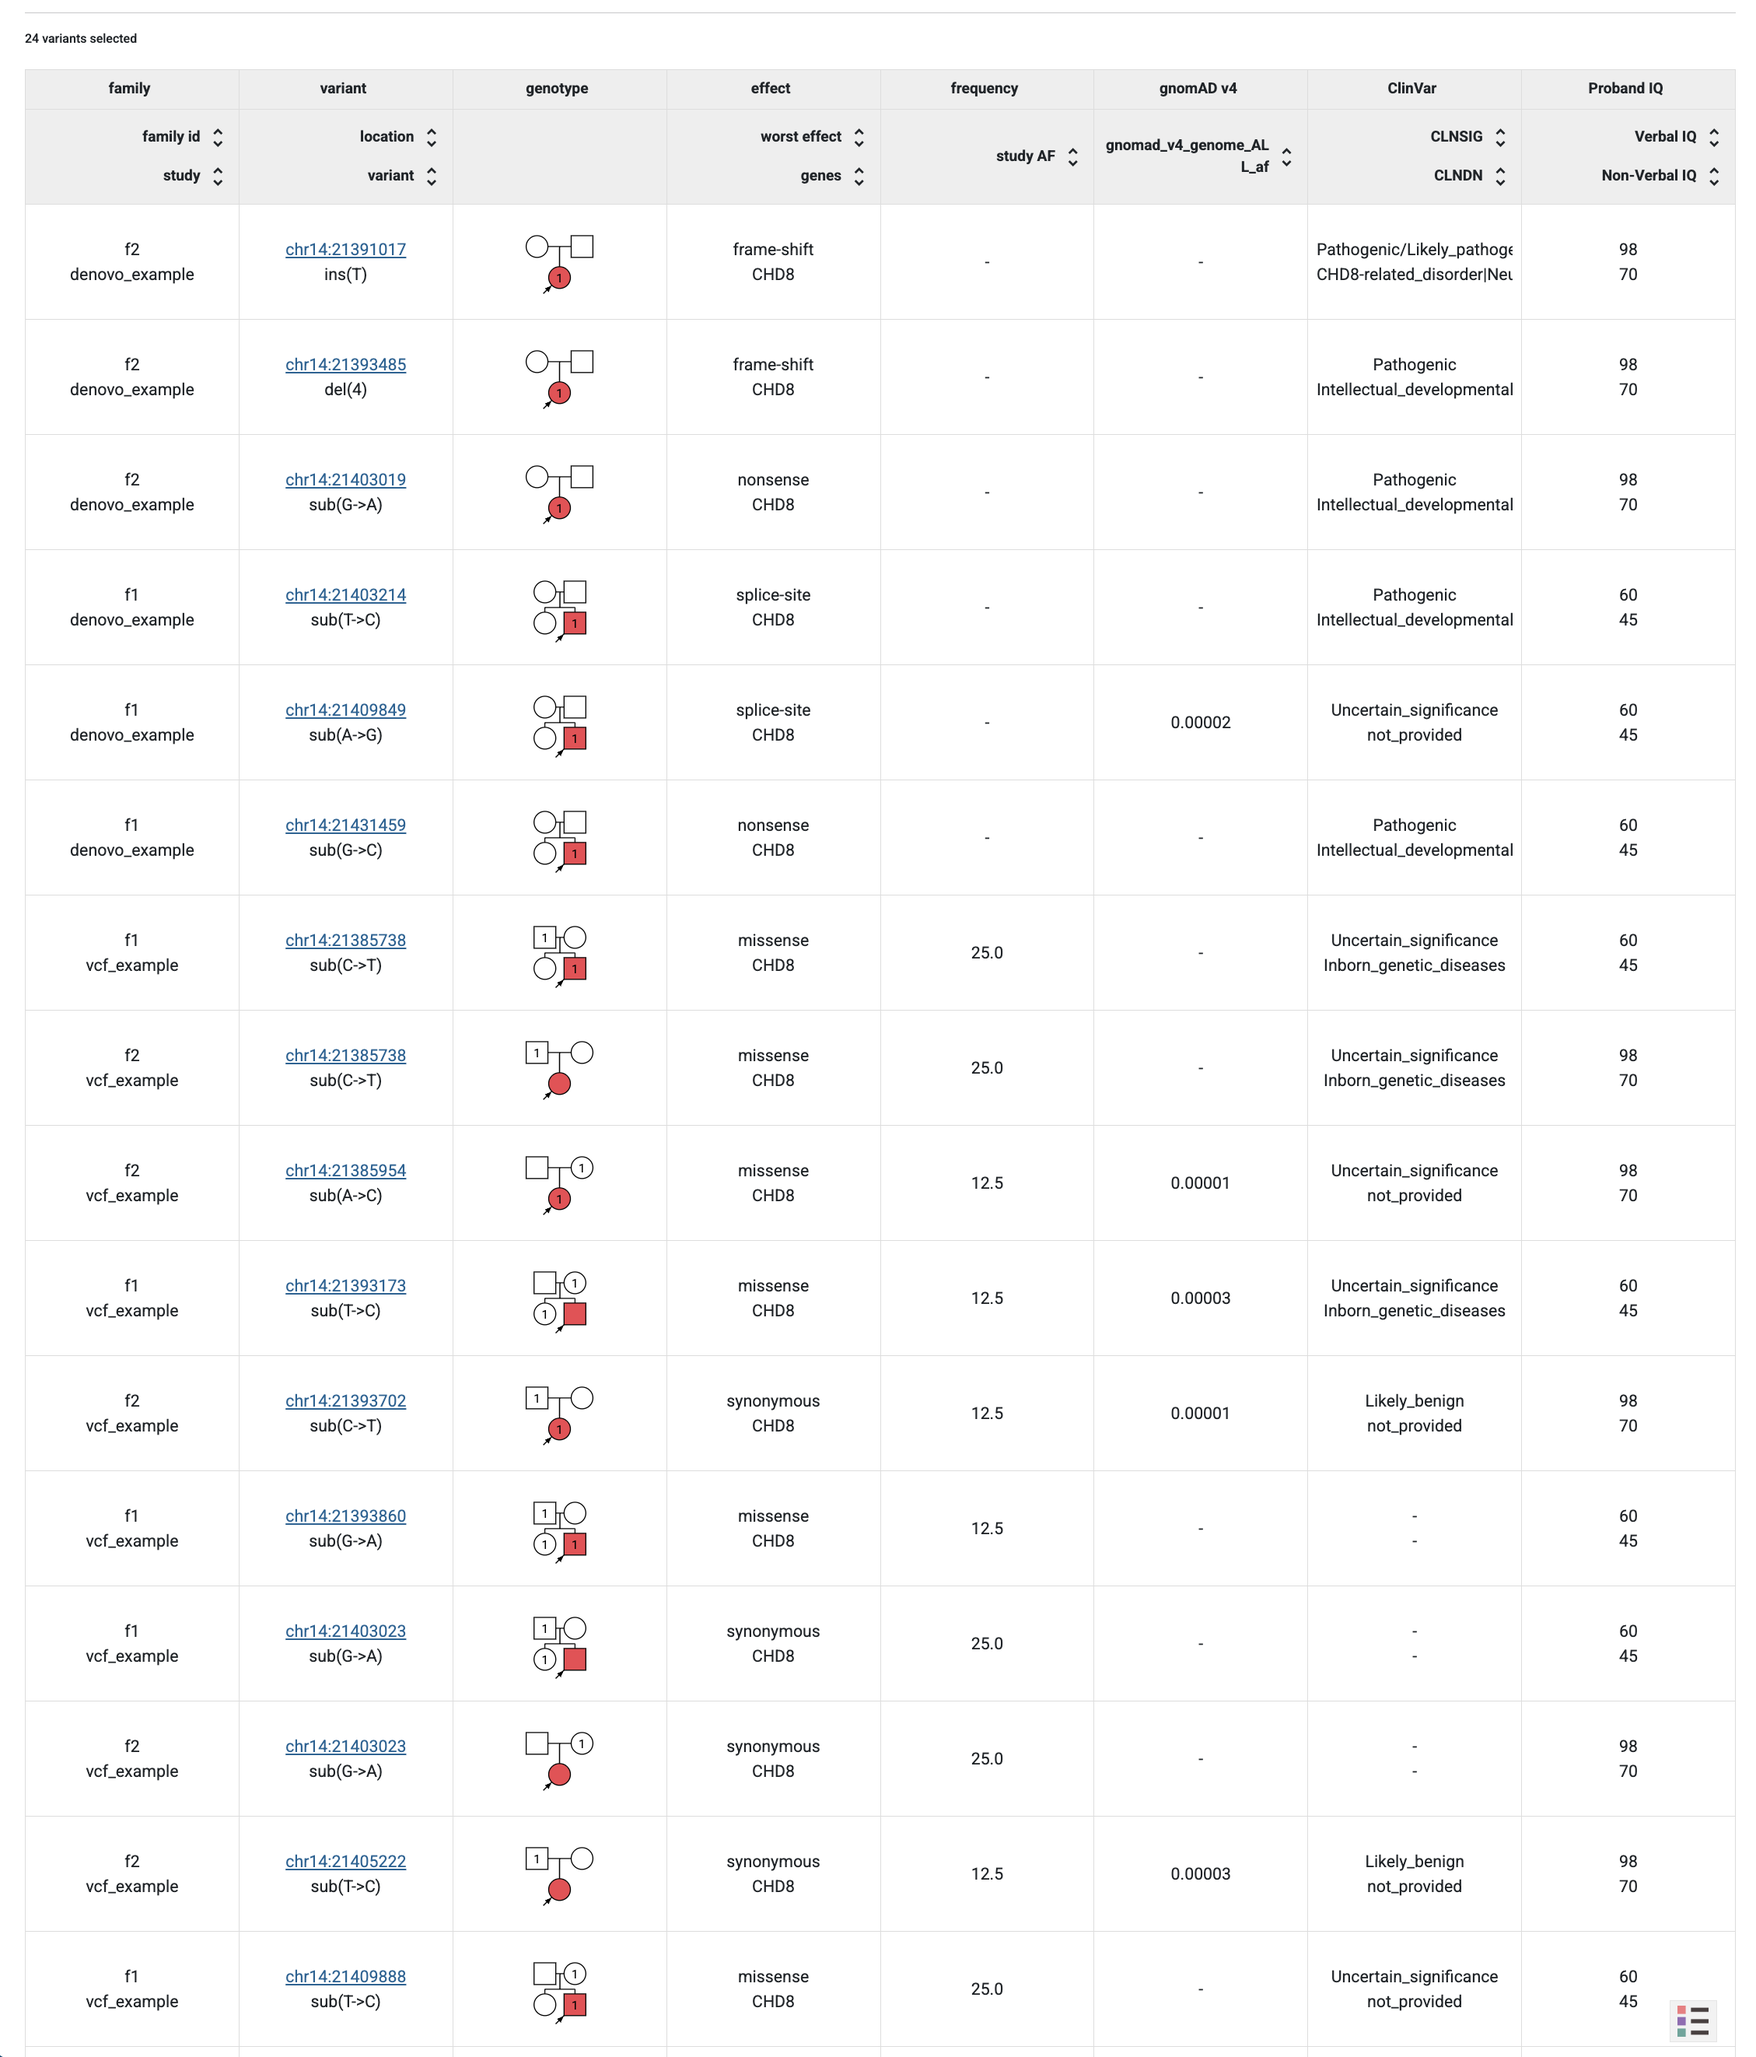
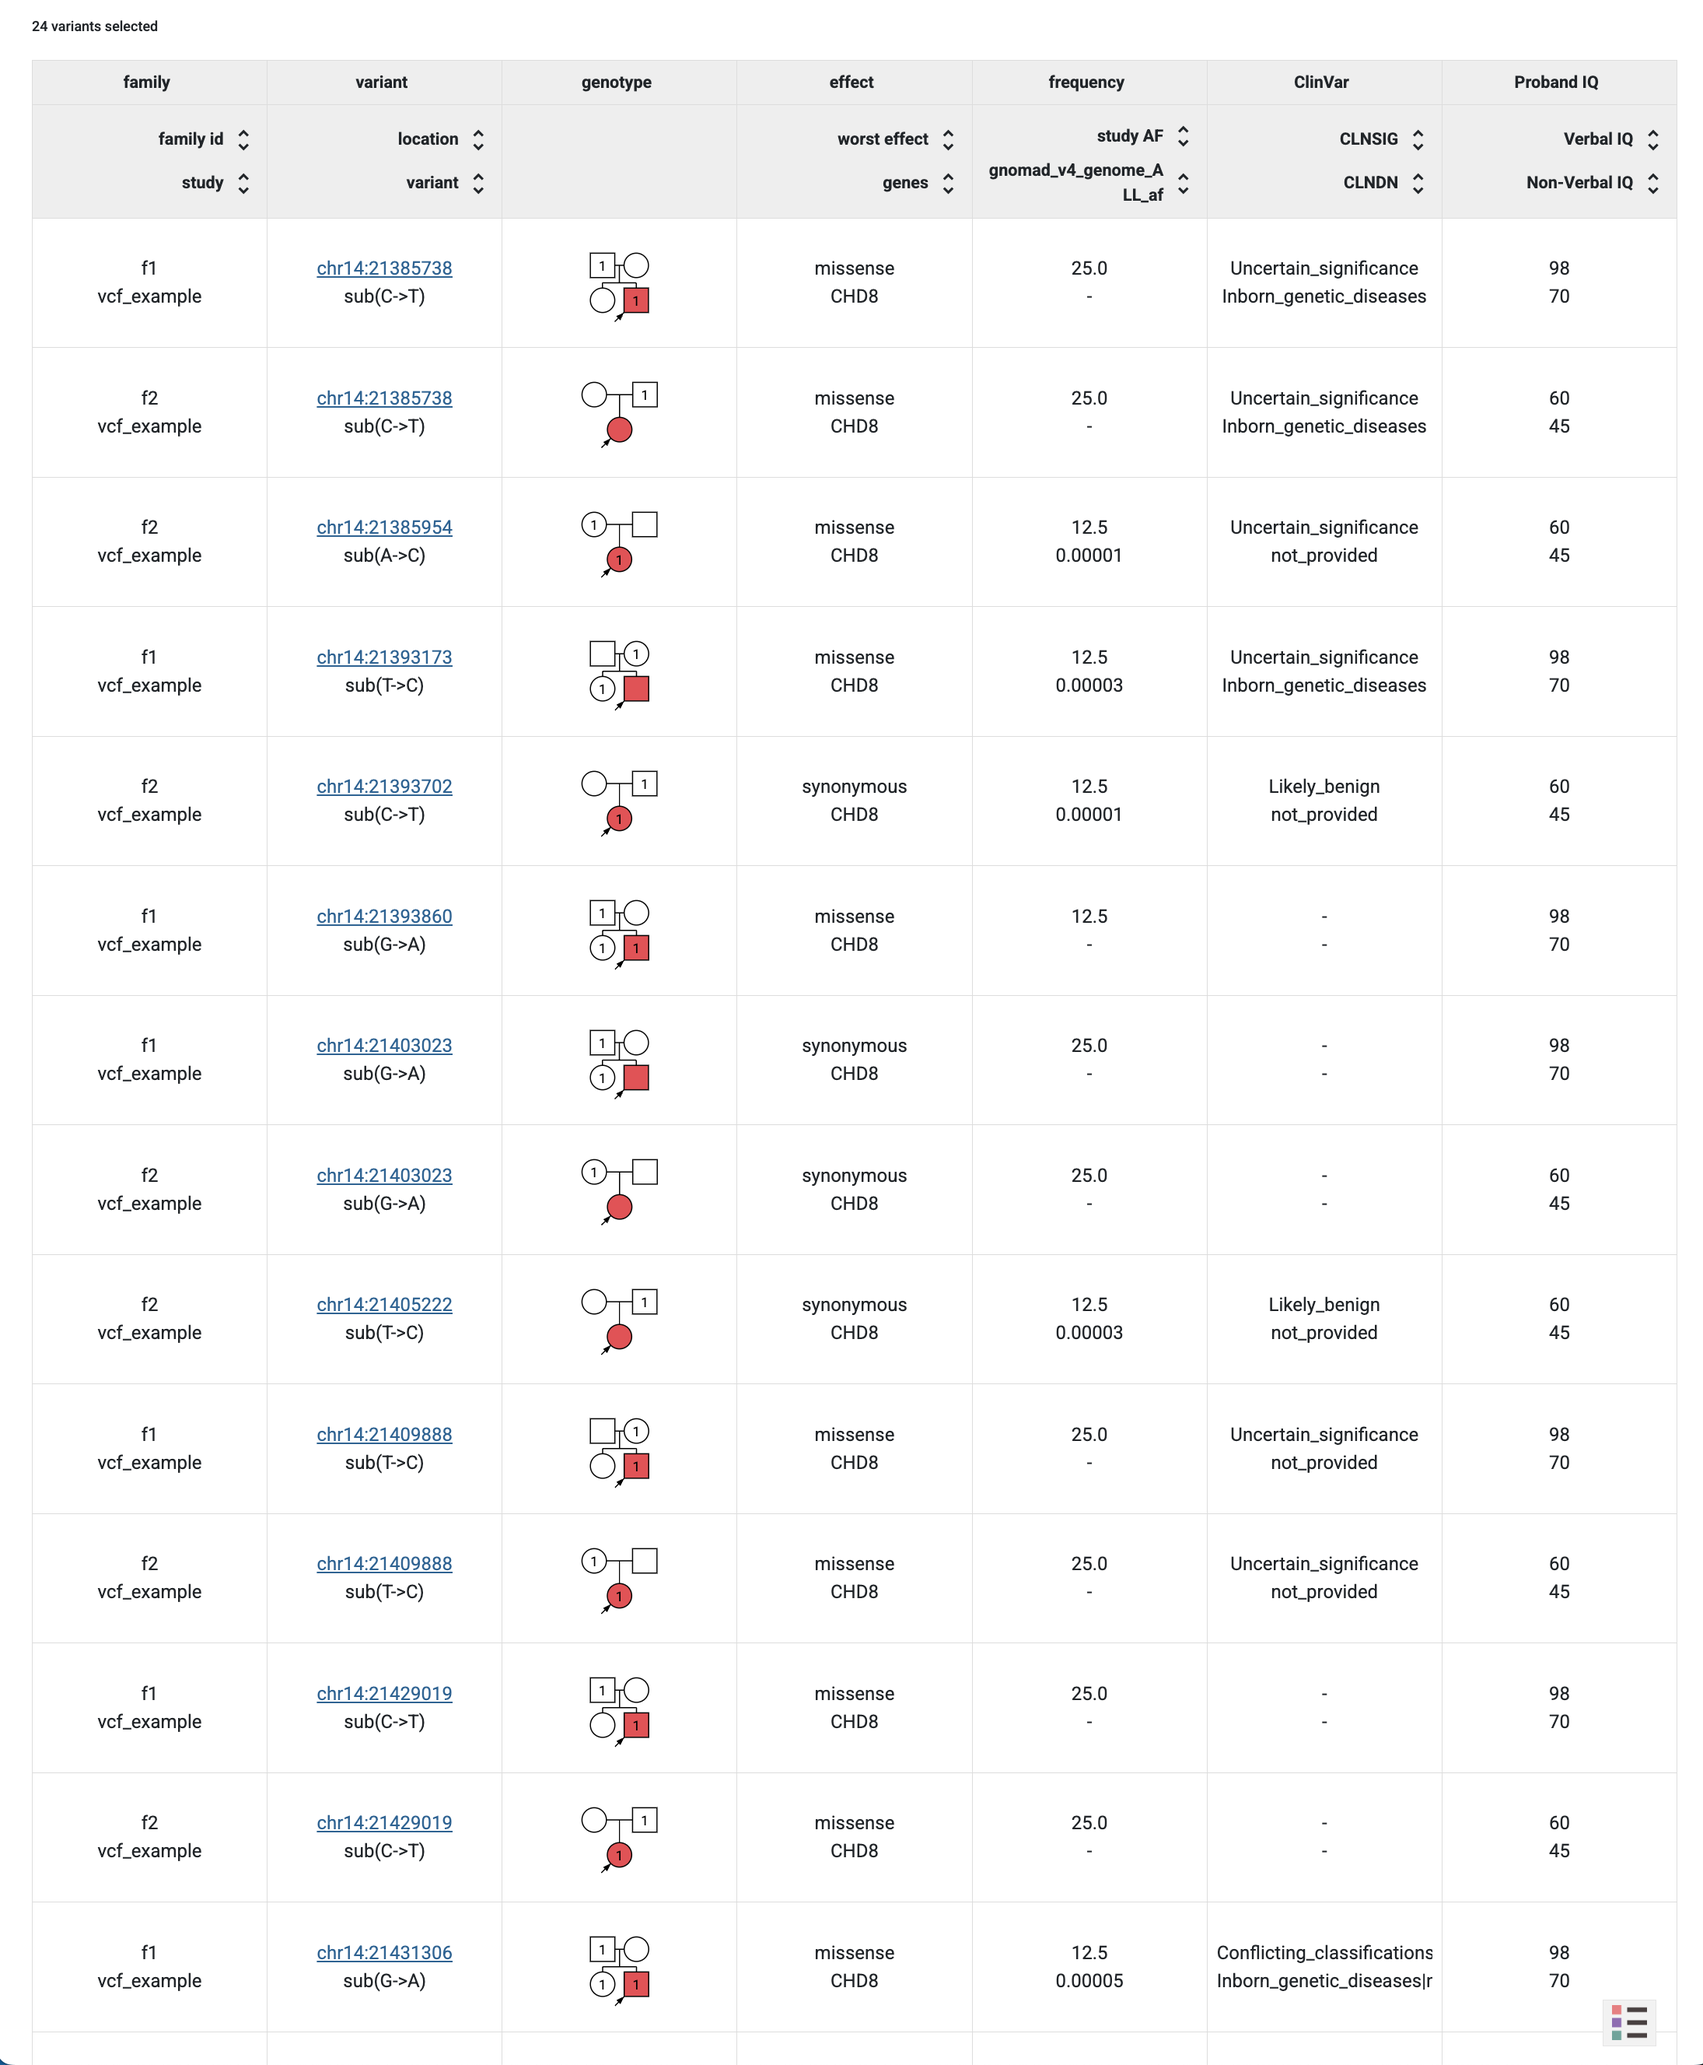
Reorganization of GSG with preview columns

diff --git a/userdocs/administration/getting_started/getting_started_with_preview_columns.rst b/userdocs/administration/getting_started/getting_started_with_preview_columns.rst
@@ -20,19 +20,44 @@ Let us add these attributes to the
 variants preview table and the variants download file for the
 ``example_dataset`` dataset.
 
+In the preview table, each column could show multiple values.
+In GPF, when you want to show multiple values in a single column,
+you need to define a **column group**.
+
+The column group is a collection of attributes that are
+shown together in the preview table. The values in a column group are shown
+in a single cell. 
+
+By default, the study configuration includes several predefined columns groups:
+``family``, ``variant``, ``genotype``, ``effect`` and ``frequency``. 
+
+.. figure:: getting_started_files/example-dataset-default-column-groups.png
+
+    Default column groups in the `Preview Table`
+
+In the
+study configuration you can define your own column groups or redefine already
+existing ones. Let us redefine the existing column group
+``frequency`` to include the gnomAD frequency and define a new column group 
+``clinvar`` to include the ClinVar attributes.
+
+The column group is defined in the
+``column_groups`` section of the configuration file.
+
 Edit the ``example_dataset.yaml`` dataset configuration in
 ``minimal_instance/datasets/example_dataset`` and add the following section
 at the end of the configuration file:
 
 .. code-block:: yaml
     :linenos:
-    :emphasize-lines: 3-6,8-12,14-16
+    :emphasize-lines: 3-7,9-13,15-16
 
     genotype_browser:
       column_groups:
-        gnomad_v4:
-          name: gnomAD v4
+        frequency:
+          name: frequency
           columns:
+          - allele_freq
           - gnomad_v4_genome_ALL_af
 
         clinvar:
@@ -42,28 +67,18 @@ at the end of the configuration file:
           - CLNDN
 
       preview_columns_ext:
-        - gnomad_v4
         - clinvar
 
-In the preview table, each column could show multiple values.
-In GPF, when you want to show multiple values in a single column,
-you need to define a **column group**.
+In lines 3-7, we re-define the existing column group
+``frequency`` to include the study frequency ``allele_freq`` and gnomAD
+frequency ``gnomad_v4_genome_ALL_af``.
 
-The column group is a collection of attributes that are
-shown together in the preview table. The values in a column group are shown
-in a single cell. The column group is defined in the
-``column_groups`` section of the configuration file.
-
-In lines 3-6, we define a column group
-``gnomad_v4`` that contains the value of the annotation attribute
-``gnomad_v4_genome_ALL_af``.
-
-In lines 8-12, we define a column group
+In lines 9-13, we define a new column group
 ``clinvar`` that contains the values of the annotation attributes
 ``CLNSIG`` and ``CLNDN``.
 
-In lines 14-16, we extend the preview table columns. The new column groups
-``gnomad_v4`` and ``clinvar`` will be added to the preview table.
+In lines 15-16, we extend the preview table columns. The new column groups
+``clinvar`` will be added to the preview table.
 
 If we now stop the ``wgpf`` tool and run it again, we will be able to see
 the new columns in the preview table and in the download file.
@@ -110,7 +125,7 @@ We are going to modify the
 
 .. code-block:: yaml
     :linenos:
-    :emphasize-lines: 2-12,26-30,35
+    :emphasize-lines: 2-12,27-31,35
 
     genotype_browser:
       columns:
@@ -126,9 +141,10 @@ We are going to modify the
             source: iq.non_verbal_iq
 
       column_groups:
-        gnomad_v4:
-          name: gnomAD v4
+        frequency:
+          name: frequency
           columns:
+          - allele_freq
           - gnomad_v4_genome_ALL_af
 
         clinvar:
@@ -144,7 +160,6 @@ We are going to modify the
           - prb_non_verbal_iq
 
       preview_columns_ext:
-        - gnomad_v4
         - clinvar
         - proband_iq
 
@@ -162,12 +177,12 @@ attributes:
 
 We want these two columns to be shown together in the preview table. To do this,
 we need to define a new **column group**.
-In lines 26-30, we define a column group called ``proband_iq`` that contains the
+In lines 27-31, we define a column group called ``proband_iq`` that contains the
 columns ``prb_verbal_iq`` and ``prb_non_verbal_iq``.
 
 To add the new column group ``proband_iq`` to the preview table, we need to
 add it to the ``preview_columns_ext`` section of the configuration file.
-In line 36, we add the new column group ``proband_iq`` at the end of the
+In line 35, we add the new column group ``proband_iq`` at the end of the
 preview table.
 
 
